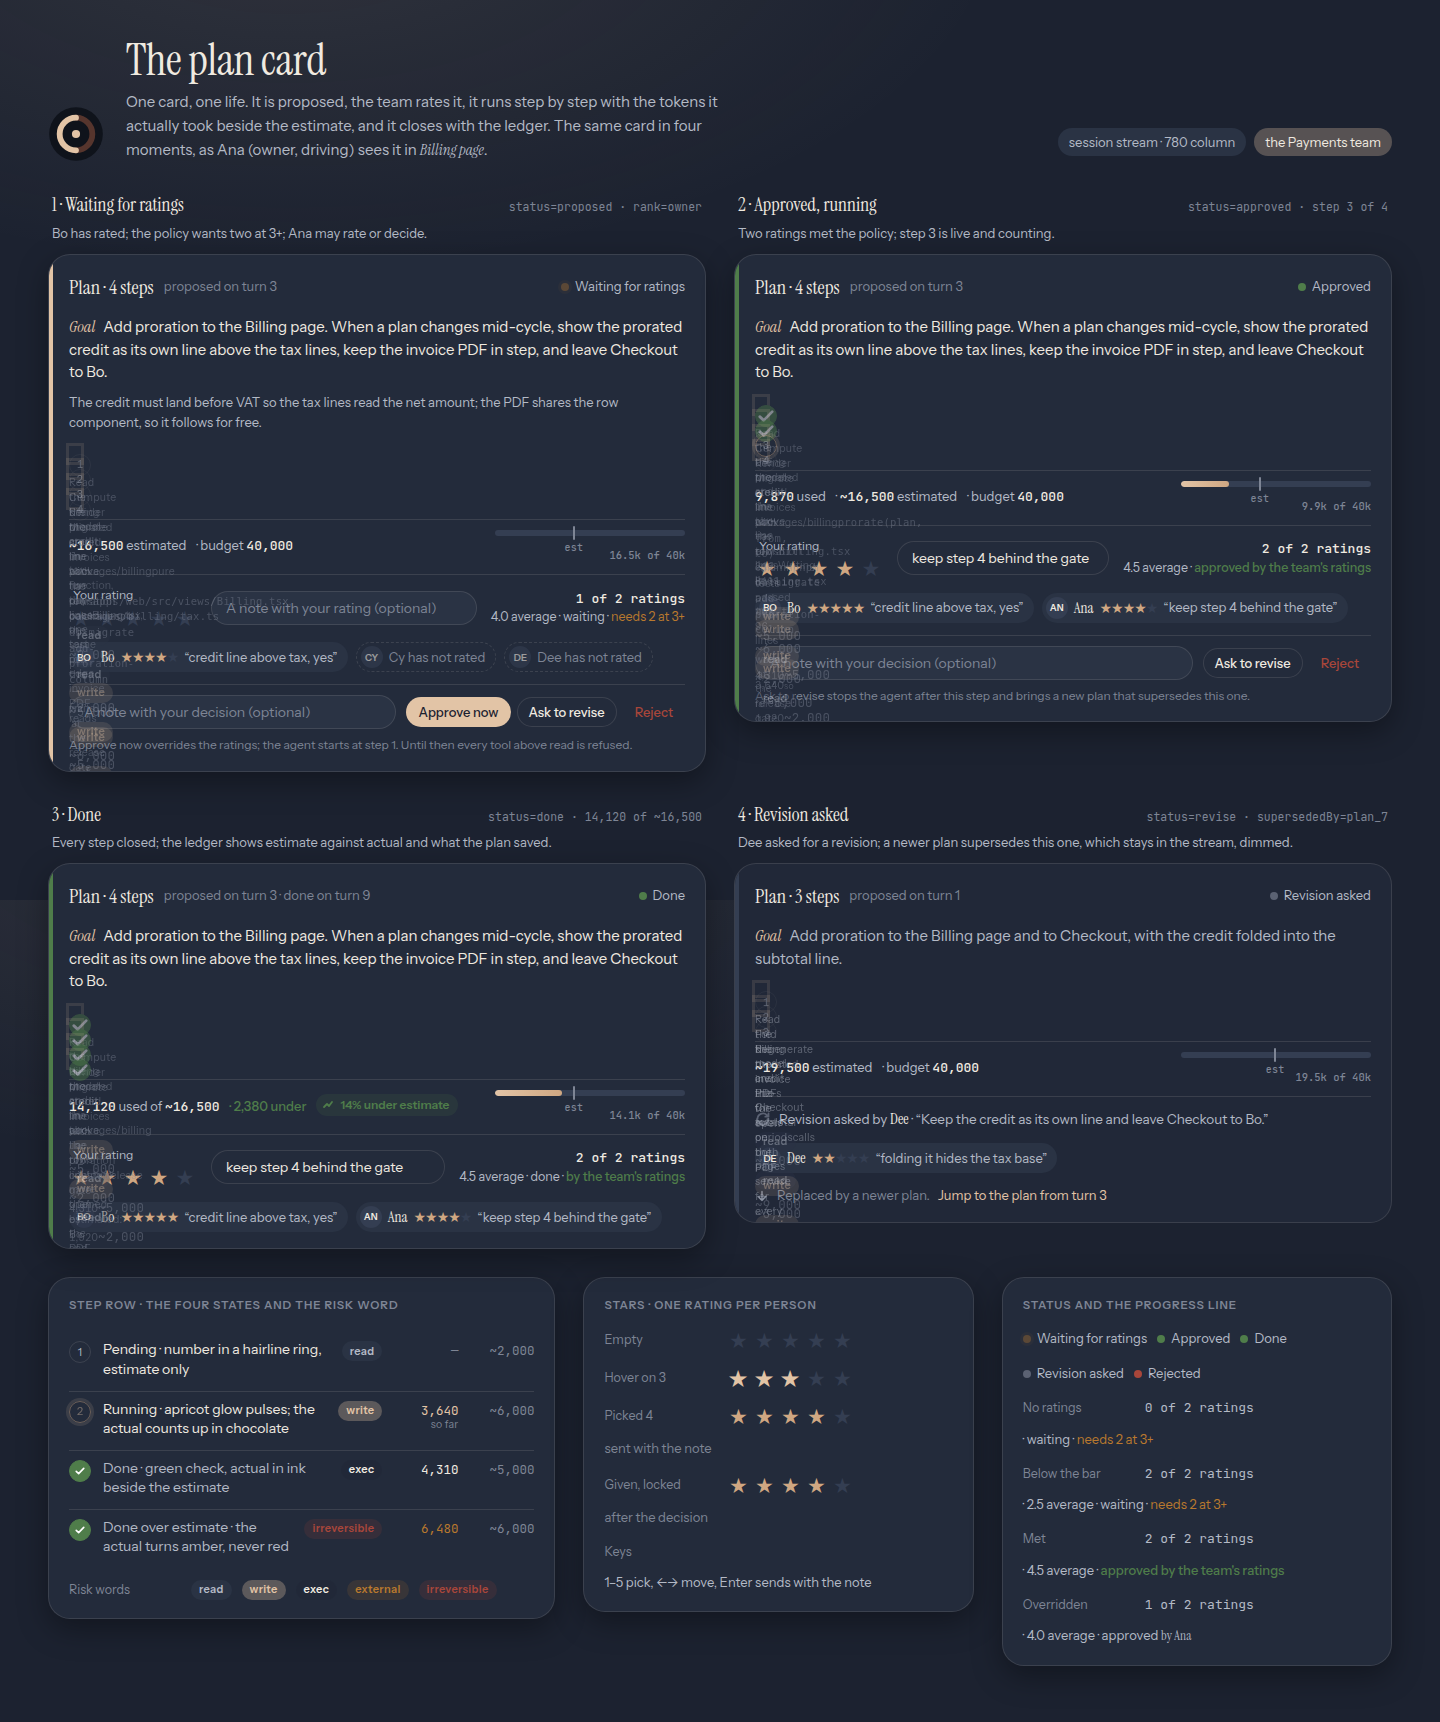
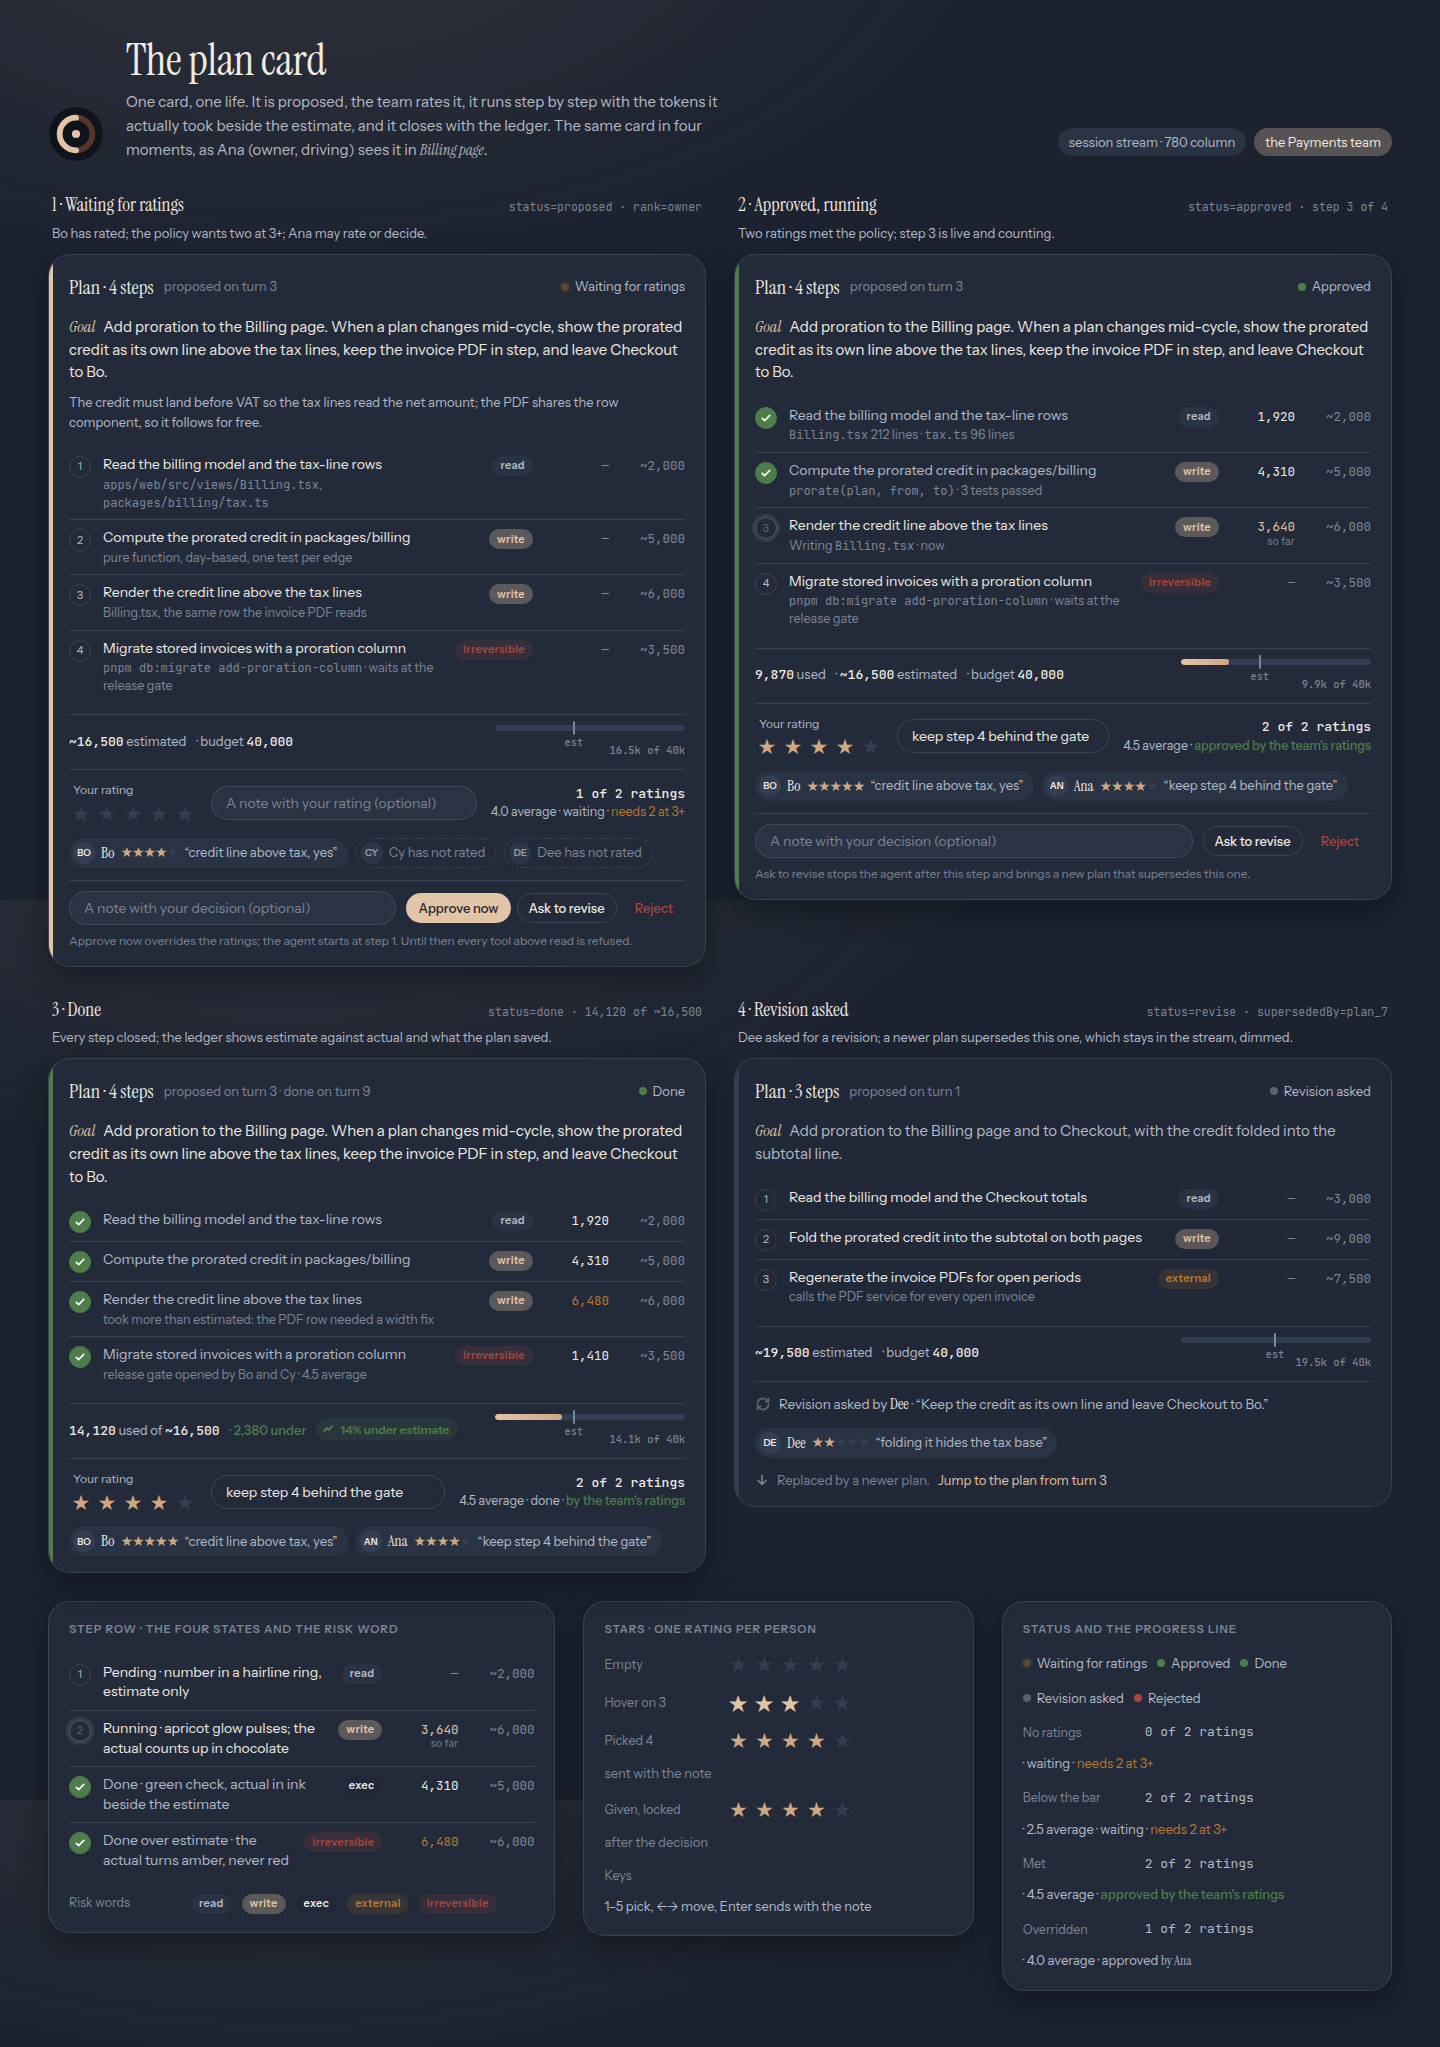
design: Henosis explorations, batch 4
Claude-Session: https://claude.ai/code/session_01YPALfxci6V6KSAnMNM9o8c

diff --git a/design/henosis/explorations/plan-card/index.html b/design/henosis/explorations/plan-card/index.html
@@ -9,7 +9,7 @@
   /* ---------- board ---------- */
   body { min-height: 100%; }
   .board { max-width: 1440px; margin: 0 auto; padding: 36px 48px 56px; display: flex; flex-direction: column; gap: 28px; }
-  .bhead { display: flex; align-items: flex-end; gap: 22px; }
+  .bhead { display: flex; align-items: center; gap: 22px; }
   .bhead .mark { width: 56px; height: 56px; flex: none; }
   .bhead h1 { font-size: 44px; }
   .bhead .lede { max-width: 640px; color: var(--ink-2); margin: 6px 0 0; font-size: 15px; }
@@ -24,7 +24,8 @@
   .spec { display: flex; flex-direction: column; gap: 14px; }
   .spec h3 { font-size: 11.5px; letter-spacing: .08em; text-transform: uppercase; color: var(--ink-3); font-weight: 600; }
   .spec .row { display: flex; align-items: center; gap: 10px; flex-wrap: wrap; font-size: 13px; color: var(--ink-2); }
-  .spec .row .cap { min-width: 112px; color: var(--ink-3); font-size: 12.5px; }
+  .spec .row .faint.small { white-space: nowrap; }
+  .spec .row .cap { min-width: 96px; color: var(--ink-3); font-size: 12.5px; }
   .plan.bare { padding: 0; border: 0; box-shadow: none; background: transparent; border-radius: 0; overflow: visible; }
   .plan.bare::before { display: none; }
 
